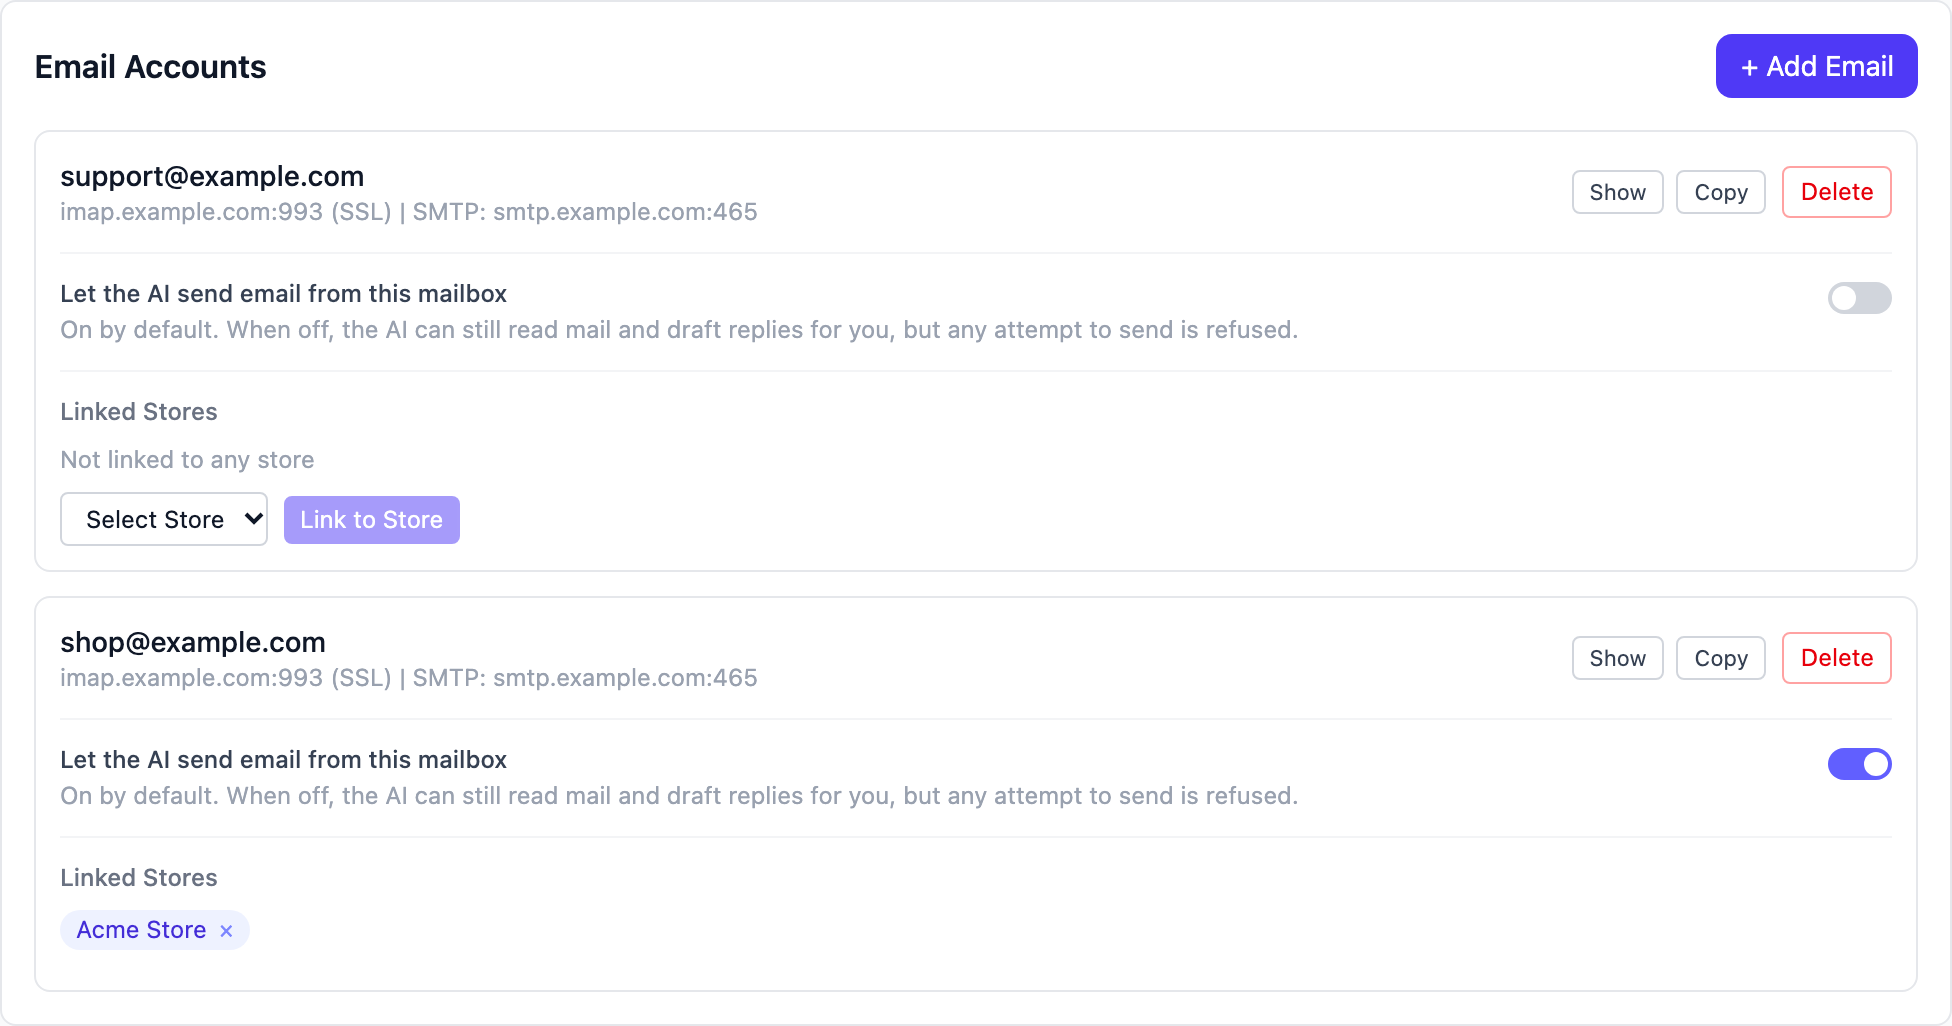
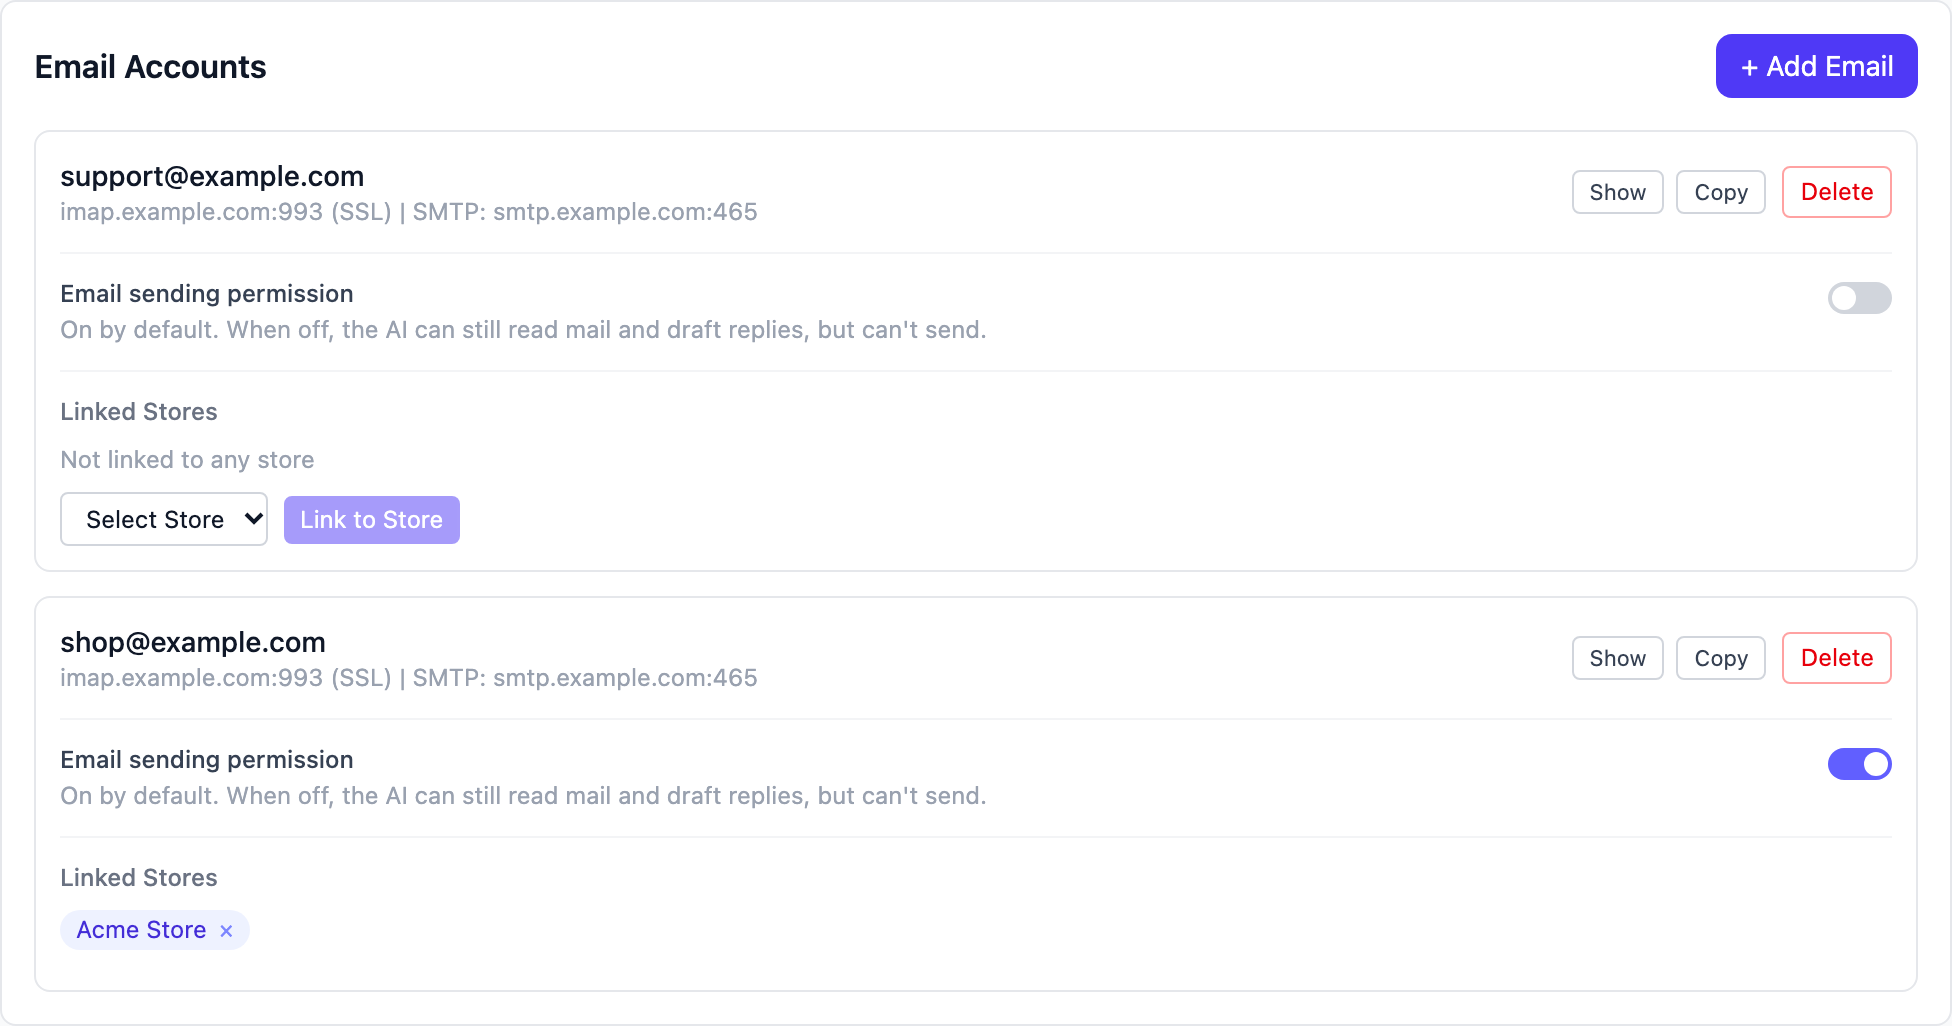
i18n(email): call the switch 「发邮件权限」 / "Email sending permission"
The old label 「允许 AI 用这个邮箱发邮件」 / "Let the AI send email from
this mailbox" read stiff. Rename it in the UI (zh/en label + hint), in
every agent-facing string that points the user at the switch
(SEND_PERMISSION_LOCATION, the interactive-only refusal, prompt
context, tool descriptions), in the docs (steps, FAQ, alt text, en
section heading, homepage row) and in the test assertions; READMEs
regenerated and screenshots retaken (one mailbox off, one on).

Claude-Session: https://claude.ai/code/session_01LKJmNk3fLpT6gsM5iS4moB

diff --git a/frontend/src/__tests__/emailAccountsPanel.test.tsx b/frontend/src/__tests__/emailAccountsPanel.test.tsx
@@ -163,7 +163,7 @@ describe('EmailAccountsPanel send permission switch', () => {
   it('renders on by default with label and hint', () => {
     renderWithAccount(ACCOUNT)
     const sw = screen.getByRole('switch', {
-      name: 'Let the AI send email from this mailbox',
+      name: 'Email sending permission',
     })
     expect(sw.getAttribute('aria-checked')).toBe('true')
     screen.getByText((c) => c.startsWith('On by default'))
@@ -171,7 +171,7 @@ describe('EmailAccountsPanel send permission switch', () => {
 
   it('renders the zh label and hint', () => {
     renderWithAccount(ACCOUNT, 'zh')
-    screen.getByRole('switch', { name: '允许 AI 用这个邮箱发邮件' })
+    screen.getByRole('switch', { name: '发邮件权限' })
     screen.getByText((c) => c.startsWith('默认开启'))
   })
 

diff --git a/app/agent_mcp/tools_comm.py b/app/agent_mcp/tools_comm.py
@@ -123,8 +123,8 @@ async def _stored_email_password(ctx: McpContext, account_id: str):
     'links. Actions: list, get, create, update, delete, test (IMAP '
     'login with raw credentials, BEFORE saving), test_smtp, send '
     '(SENDS A REAL EMAIL through the account — never use it '
-    'without your user asking; refused if the user has turned '
-    'sending off for that mailbox in Settings → Email — see each '
+    'without your user asking; refused if the user turned off that '
+    'mailbox\'s "Email sending permission" in Settings → Email — see each '
     "account's allow_send, which only the user can change), "
     'sync_now (pull new mail now), '
     'links (stores linked to an account), link / unlink (attach an '

diff --git a/app/mcp_tool_schemas.py b/app/mcp_tool_schemas.py
@@ -231,9 +231,9 @@ TOOLS = [
     {
         'name': 'vibe_seller_send_email',
         'description': (
-            'Send email from a configured account (by address). The user '
-            'may have turned sending off for that mailbox (Settings → '
-            'Email); then refused, nothing sent — draft it for the user. '
+            'Send email from a configured account (by address). If the '
+            'user turned off its "Email sending permission" (Settings → '
+            'Email), refused, nothing sent — draft it for the user. '
             'Returns {ok: true, message_id: ...} on success.'
         ),
         'inputSchema': {

diff --git a/app/task_runner_context.py b/app/task_runner_context.py
@@ -81,8 +81,8 @@ def send_policy_note(mailboxes: Sequence[Mailbox]) -> str:
         + ', '.join(blocked)
         + '. Do not call vibe_seller_send_email for these — it is '
         'refused. Draft the email and show it to the user instead, and '
-        'tell them they can turn sending back on for that mailbox in '
-        'Settings → Email.'
+        'tell them they can turn it back on with that mailbox\'s "Email '
+        'sending permission" switch in Settings → Email.'
     )
     if sendable:
         note = 'Sending is allowed from: ' + ', '.join(sendable) + '. ' + note

diff --git a/app/email/sender.py b/app/email/sender.py
@@ -32,8 +32,7 @@ logger = logging.getLogger(__name__)
 # Where the user turns sending back on. Kept next to the gate so the
 # refusal can never point at a place the UI no longer has.
 SEND_PERMISSION_LOCATION = (
-    'Settings → Email, switch "Let the AI send email from this '
-    'mailbox" on that mailbox'
+    'Settings → Email, "Email sending permission" switch on that mailbox'
 )
 
 

diff --git a/tests/workflow/test_wf_email.py b/tests/workflow/test_wf_email.py
@@ -341,7 +341,7 @@ class TestSendPermission:
         detail = r.json()['detail']
         assert 'shop@example.com' in detail
         assert 'turned sending off' in detail
-        assert 'Settings → Email' in detail
+        assert 'Settings → Email, "Email sending permission" switch' in detail
         assert 'draft' in detail
         assert _smtp_untouched(smtp_spy)
 

diff --git a/app/interactive_only.py b/app/interactive_only.py
@@ -73,7 +73,7 @@ INTERACTIVE_ONLY_ROUTES: tuple[InteractiveOnlyRoute, ...] = (
     InteractiveOnlyRoute(
         {'PUT'},
         '/api/email-accounts/{account_id}/send-permission',
-        'Settings → Email, "Let the AI send email from this mailbox"',
+        'Settings → Email, "Email sending permission" switch on that mailbox',
     ),
 )
 

diff --git a/tests/unit/test_email_sender.py b/tests/unit/test_email_sender.py
@@ -208,6 +208,7 @@ class TestSendPermission:
         message = str(exc_info.value)
         assert 'sender@example.com' in message
         assert 'Settings → Email' in message
+        assert '"Email sending permission"' in message
         assert 'draft' in message
 
     def test_sync_sender_refuses_too(self, mock_account):

diff --git a/tests/unit/test_interactive_only.py b/tests/unit/test_interactive_only.py
@@ -211,6 +211,7 @@ class TestMiddleware:
         body = json.loads(out[1]['body'])
         assert 'Only the user can change this' in body['detail']
         assert 'Settings → Email' in body['detail']
+        assert '"Email sending permission"' in body['detail']
 
     @pytest.mark.parametrize(
         'headers',

diff --git a/tests/unit/test_prompt_assembly.py b/tests/unit/test_prompt_assembly.py
@@ -405,6 +405,7 @@ class TestEmailSendPolicy:
             'support@example.com.'
         ) in body
         assert 'Settings → Email' in body
+        assert '"Email sending permission"' in body
 
     @pytest.mark.asyncio
     async def test_store_task_all_blocked(

diff --git a/docs/email.en.md b/docs/email.en.md
@@ -7,8 +7,8 @@ description: Email integration — connect a mailbox in Vibe Seller so AI can re
 Connect your customer-service mailbox to Vibe Seller and the AI can pull
 up the inbox while running a task, sort messages the way you want, and
 draft and send replies — no more copying and pasting between windows.
-If you don't want the AI sending from a mailbox, turn sending off for
-that mailbox.
+If you don't want the AI sending from a mailbox, turn off that
+mailbox's email sending permission.
 
 Everything runs over standard IMAP / SMTP. **You never type your email
 password** — 163 and QQ Mail use an *authorization code*, Gmail uses an
@@ -171,21 +171,21 @@ Three quick checks:
 3. Create a task asking "what's the latest mail in this mailbox?" —
    if the AI reports recent subjects and senders, you are done.
 
-## Turn off AI sending
+## Turn off the email sending permission
 
 Every mailbox **can send** by default: the AI can read, sort, draft and
 send. If you don't want the AI sending from a mailbox (say, read and
-draft only), turn it off **per mailbox**:
+draft only), turn off its email sending permission **per mailbox**:
 
 1. Go to **Settings → Email** and find the mailbox in the list;
-2. Turn off the **"Let the AI send email from this mailbox"** switch on
-   its card (grey means off);
+2. Turn off the **"Email sending permission"** switch on its card
+   (grey means off);
 3. Each mailbox is separate: turning it off for mailbox A leaves
    mailbox B sending as usual.
 
 To allow sending again, turn the same switch back on.
 
-![The "Let the AI send email from this mailbox" switch: off for the top mailbox, on for the bottom one](images/email_allow_send_en.png)
+![The "Email sending permission" switch: off for the top mailbox, on for the bottom one](images/email_allow_send_en.png)
 
 **Verify**: create a task asking the AI to "send a test email from this
 mailbox to me" (give it another inbox of yours). With the switch on, the
@@ -212,9 +212,10 @@ matters to you.
 - **Sort and summarise**: group messages by your rules, extract the
   key points, turn threads into tables or lists;
 - **Send mail**: draft replies and send them as instructed. Each
-  mailbox's "Let the AI send email from this mailbox" switch is on by
-  default and you can turn it off per mailbox (see
-  [Turn off AI sending](#turn-off-ai-sending)). While it is off, the AI
+  mailbox's "Email sending permission" switch is on by default and you
+  can turn it off per mailbox (see
+  [Turn off the email sending permission](#turn-off-the-email-sending-permission)).
+  While it is off, the AI
   shows you the drafted email so you can send it yourself or turn the
   switch back on and ask again. Asking "show me before sending" in
   the task keeps you in the loop.
@@ -268,8 +269,7 @@ store's tasks.
 <details markdown="1"><summary><b>The AI says it can't send email?</b></summary>
 
 If the AI replies that sending from a mailbox has been turned off, that
-mailbox's **"Let the AI send email from this mailbox"** switch was
-turned off (mailboxes start with it on, so someone switched it off in
+mailbox's **"Email sending permission"** switch was turned off (mailboxes start with it on, so someone switched it off in
 Settings). Go to **Settings → Email**, turn it back on on that mailbox's
 card, and ask the task to send again.
 
